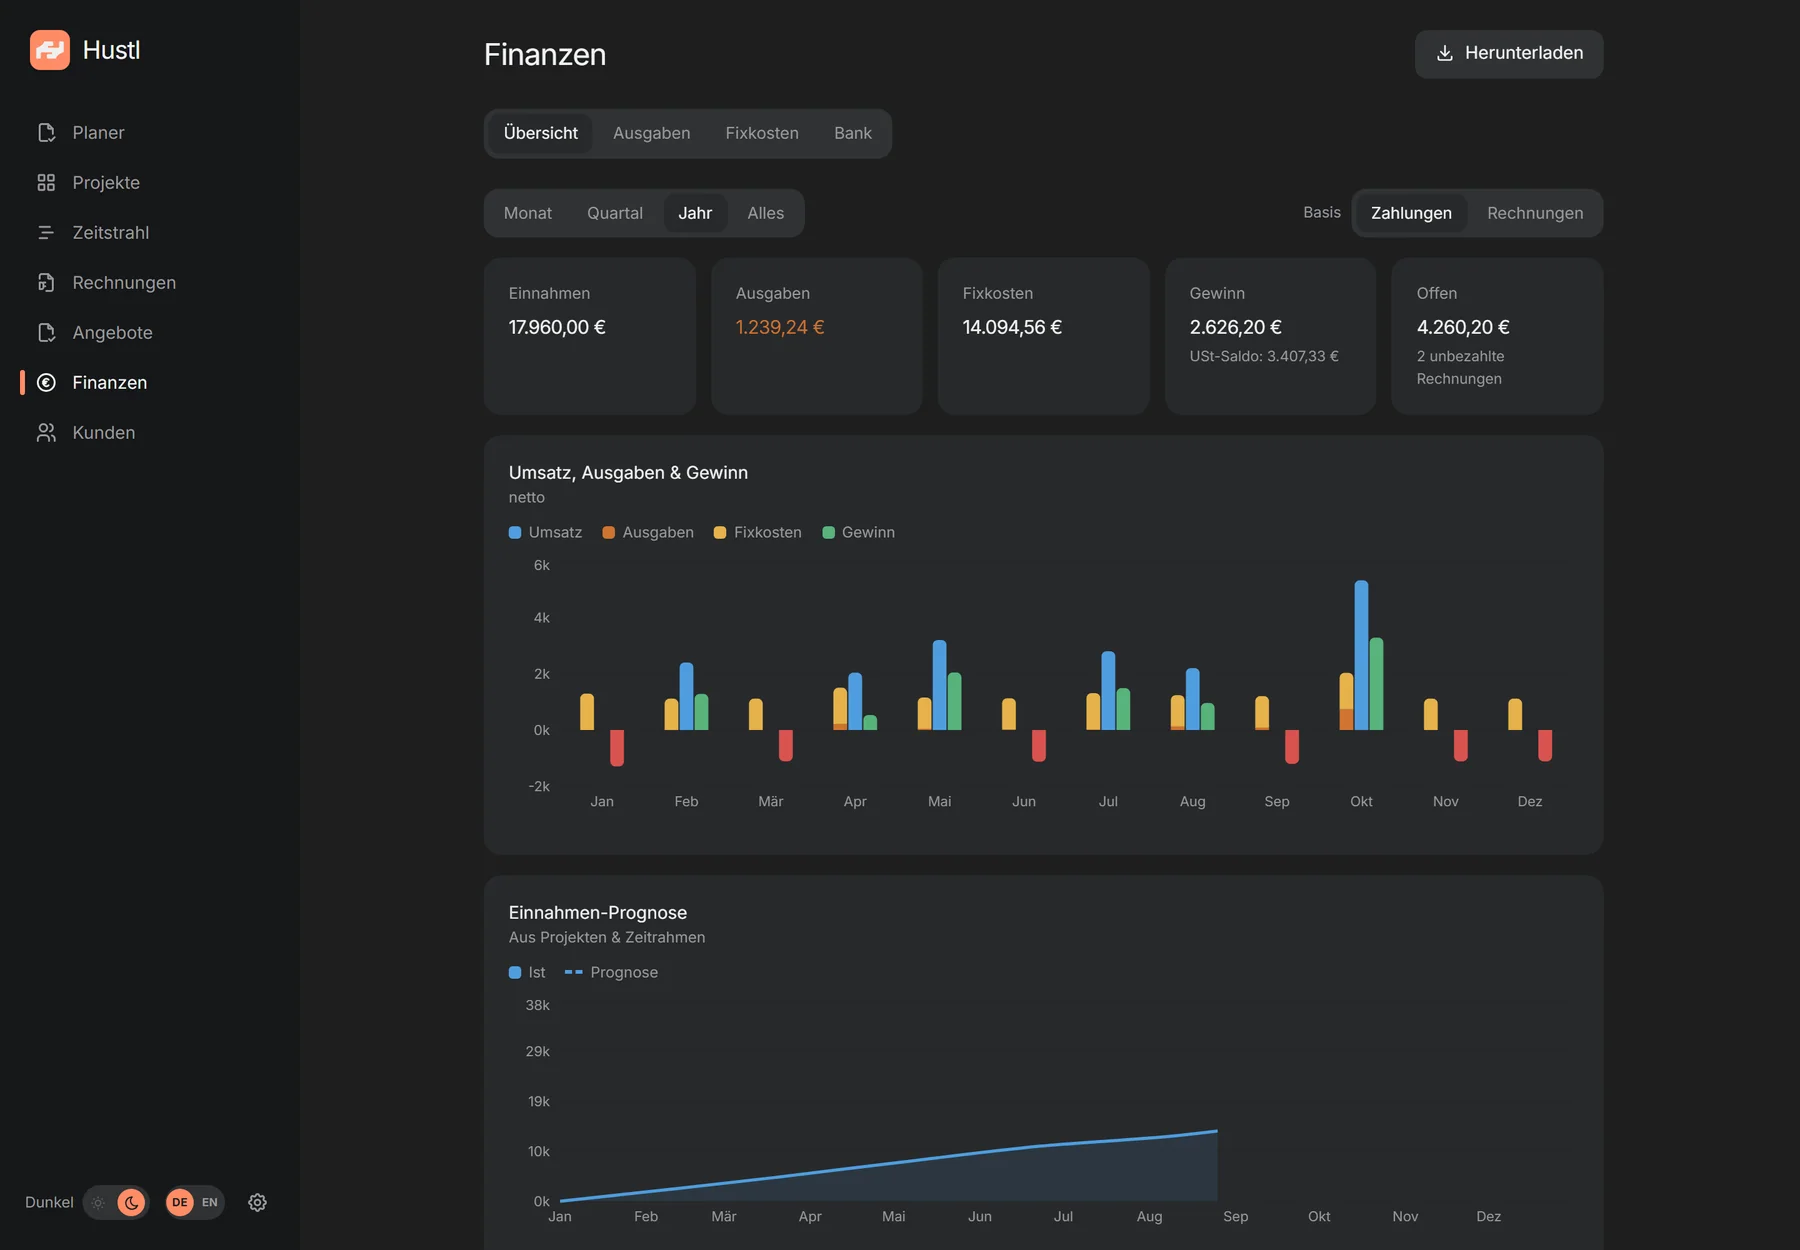
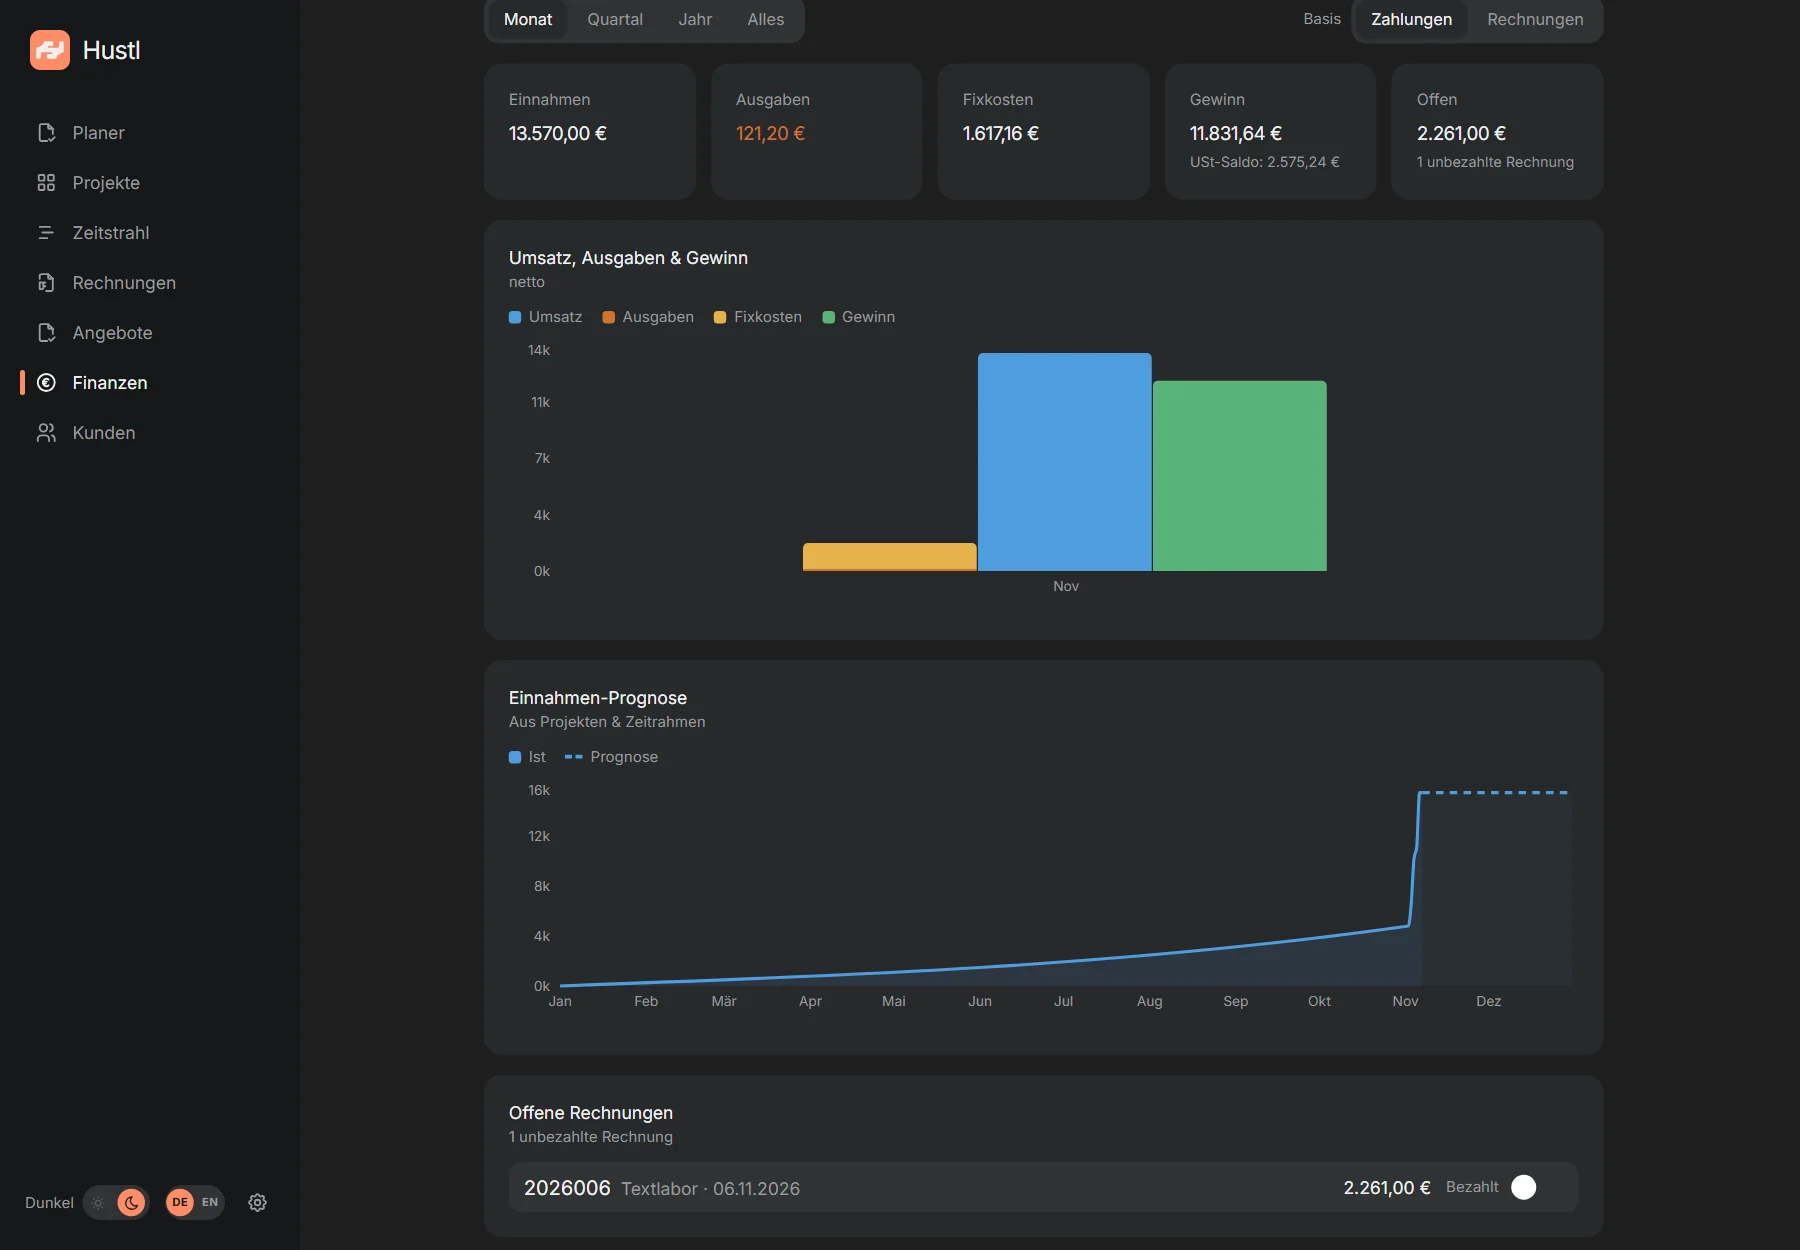
Add audience section and show monthly finance view

diff --git a/site/de/index.html b/site/de/index.html
@@ -128,8 +128,8 @@
 
       <nav class="main-nav" id="main-nav" aria-label="Hauptnavigation">
         <a href="#funktionen">Funktionen</a>
+        <a href="#fuer-wen">Für wen</a>
         <a href="#planer">Planer</a>
-        <a href="#erscheinungsbild">Helles Theme</a>
         <a href="#einblicke">Einblicke</a>
         <a href="#finanz-ablauf">Finanzen</a>
         <a href="#installation">Installation</a>
@@ -252,6 +252,43 @@
             <h3>Überall dabei</h3>
             <p>PWA auf iPhone, iPad und Desktop. Dazu Desktop-Apps für Windows, macOS und Linux: eine Oberfläche, alle Geräte.</p>
           </article>
+        </div>
+      </div>
+    </section>
+
+    <section class="section" id="fuer-wen">
+      <div class="wrap">
+        <div class="audience-grid">
+          <div class="audience-copy reveal">
+            <p class="eyebrow">Für wen</p>
+            <h2>Für Freelancer, die den Überblick behalten wollen.</h2>
+            <p class="audience-lede">Hustl ist für Soloselbstständige und Ein-Personen-Studios, die ihre Zeit lieber in die Arbeit stecken als in fünf verschiedene Tools.</p>
+            <p class="audience-note"><strong>Eine Person pro Instanz.</strong> Hustl ist bewusst klein: mehrere Passkeys, keine Rollen oder Freigaben. Das hält die App ruhig und die Daten in deiner Hand.</p>
+          </div>
+
+          <div class="audience-list reveal">
+            <article class="audience-item">
+              <span class="audience-number" aria-hidden="true">01</span>
+              <div>
+                <h3>Du willst alles an einem Ort.</h3>
+                <p>Projekte, Aufgaben, Rechnungen und Finanzen liegen nebeneinander. Du siehst, was ansteht, was offen ist und was reinkommt, ohne dir alles aus Tabellen zusammenzusuchen.</p>
+              </div>
+            </article>
+            <article class="audience-item">
+              <span class="audience-number" aria-hidden="true">02</span>
+              <div>
+                <h3>Du willst kein weiteres Abo.</h3>
+                <p>Hustl gehört dir. Kein Software-Abo, keine Preise pro Platz. Du zahlst nur für Server und Domain, meist 5 bis 15 € im Monat für den Server plus ein paar Euro im Jahr für die Domain.</p>
+              </div>
+            </article>
+            <article class="audience-item">
+              <span class="audience-number" aria-hidden="true">03</span>
+              <div>
+                <h3>Du willst die Kontrolle über deine Daten.</h3>
+                <p>Rechnungen, Belege und Kundendaten liegen auf deinem eigenen Server. Kein Cloud-Konto, keine Telemetrie. Du kannst sichern, exportieren und die Daten selbst mitnehmen.</p>
+              </div>
+            </article>
+          </div>
         </div>
       </div>
     </section>
@@ -425,7 +462,7 @@
                 <span class="browser-url">Finanzen</span>
                 <span class="browser-spacer" aria-hidden="true"></span>
               </div>
-              <img src="../assets/screens/finance.webp" width="1800" height="1250" alt="Finanzdashboard in Hustl" loading="lazy">
+              <img src="../assets/screens/finance.webp" width="1800" height="1250" alt="Monatsansicht der Finanzen in Hustl" loading="lazy">
             </div>
           </div>
         </div>
@@ -548,7 +585,7 @@
                   <span class="browser-url">Finanzen</span>
                   <span class="browser-spacer" aria-hidden="true"></span>
                 </div>
-                <img src="../assets/screens/finance.webp" width="1800" height="1250" alt="Finanzdashboard mit Einnahmen-Prognose in Hustl" loading="lazy">
+                <img src="../assets/screens/finance.webp" width="1800" height="1250" alt="Monatsansicht der Finanzen mit Einnahmen-Prognose in Hustl" loading="lazy">
               </div>
             </div>
             <details class="finance-details">
@@ -786,6 +823,7 @@ cd /opt/hustl/src &amp;&amp; sudo ./deploy/selfhost/install.sh</code></pre>
       <div class="footer-col">
         <h4>Produkt</h4>
         <a href="#funktionen">Funktionen</a>
+        <a href="#fuer-wen">Für wen</a>
         <a href="#planer">Planer</a>
         <a href="#finanz-ablauf">Finanzablauf</a>
         <a href="#erscheinungsbild">Helles Theme</a>

diff --git a/site/index.html b/site/index.html
@@ -125,8 +125,8 @@
 
       <nav class="main-nav" id="main-nav" aria-label="Main navigation">
         <a href="#features">Features</a>
+        <a href="#who-for">Who it's for</a>
         <a href="#planner">Planner</a>
-        <a href="#appearance">Light theme</a>
         <a href="#screens">Screens</a>
         <a href="#finance-flow">Finance</a>
         <a href="#installation">Install</a>
@@ -249,6 +249,43 @@
             <h3>Everywhere</h3>
             <p>PWA on iPhone, iPad and desktop. Plus desktop apps for Windows, macOS and Linux: one interface, all devices.</p>
           </article>
+        </div>
+      </div>
+    </section>
+
+    <section class="section" id="who-for">
+      <div class="wrap">
+        <div class="audience-grid">
+          <div class="audience-copy reveal">
+            <p class="eyebrow">Who it's for</p>
+            <h2>For freelancers who want to keep the overview.</h2>
+            <p class="audience-lede">Hustl is for solo freelancers and one-person studios who would rather spend their time on the work than on five different tools.</p>
+            <p class="audience-note"><strong>One person per instance.</strong> Hustl is deliberately small: several passkeys, no roles or approvals. That keeps the app calm and your data in your hands.</p>
+          </div>
+
+          <div class="audience-list reveal">
+            <article class="audience-item">
+              <span class="audience-number" aria-hidden="true">01</span>
+              <div>
+                <h3>You want one place for the whole picture.</h3>
+                <p>Projects, tasks, invoices and finances sit next to each other. You see what is due, what is open and what is coming in, without piecing it together from spreadsheets.</p>
+              </div>
+            </article>
+            <article class="audience-item">
+              <span class="audience-number" aria-hidden="true">02</span>
+              <div>
+                <h3>You don't want another subscription.</h3>
+                <p>Hustl belongs to you. There is no software subscription and no per-seat pricing. You only pay for your server and domain, usually 5 to 15 € per month for the server plus a few euros a year for the domain.</p>
+              </div>
+            </article>
+            <article class="audience-item">
+              <span class="audience-number" aria-hidden="true">03</span>
+              <div>
+                <h3>You want control over your data.</h3>
+                <p>Invoices, receipts and client data live on your own server. No cloud account, no telemetry. You can back up, export and take the data with you.</p>
+              </div>
+            </article>
+          </div>
         </div>
       </div>
     </section>
@@ -422,7 +459,7 @@
                 <span class="browser-url">Finance</span>
                 <span class="browser-spacer" aria-hidden="true"></span>
               </div>
-              <img src="assets/screens/finance-en.webp" width="1800" height="1250" alt="Finance dashboard in Hustl" loading="lazy">
+              <img src="assets/screens/finance-en.webp" width="1800" height="1250" alt="Monthly finance dashboard in Hustl" loading="lazy">
             </div>
           </div>
         </div>
@@ -545,7 +582,7 @@
                   <span class="browser-url">Finance</span>
                   <span class="browser-spacer" aria-hidden="true"></span>
                 </div>
-                <img src="assets/screens/finance-en.webp" width="1800" height="1250" alt="Finance dashboard with income forecast in Hustl" loading="lazy">
+                <img src="assets/screens/finance-en.webp" width="1800" height="1250" alt="Monthly finance dashboard with income forecast in Hustl" loading="lazy">
               </div>
             </div>
             <details class="finance-details">
@@ -783,6 +820,7 @@ cd /opt/hustl/src &amp;&amp; sudo ./deploy/selfhost/install.sh</code></pre>
       <div class="footer-col">
         <h4>Product</h4>
         <a href="#features">Features</a>
+        <a href="#who-for">Who it's for</a>
         <a href="#planner">Planner</a>
         <a href="#finance-flow">Finance flow</a>
         <a href="#appearance">Light theme</a>

diff --git a/site/styles.css b/site/styles.css
@@ -609,6 +609,86 @@ summary:focus-visible {
   line-height: 1.65;
 }
 
+/* ---------- Who it's for ---------- */
+
+.audience-grid {
+  display: grid;
+  grid-template-columns: minmax(0, 0.88fr) minmax(0, 1.12fr);
+  align-items: start;
+  gap: clamp(36px, 7vw, 96px);
+}
+.audience-copy .eyebrow {
+  margin-bottom: 12px;
+}
+.audience-copy h2 {
+  font-size: clamp(2rem, 4.2vw, 3.35rem);
+  line-height: 1.08;
+  letter-spacing: -0.045em;
+  font-weight: 700;
+  text-wrap: balance;
+}
+.audience-lede {
+  margin-top: 18px;
+  max-width: 46ch;
+  color: var(--muted);
+  font-size: 16px;
+  line-height: 1.7;
+  text-wrap: pretty;
+}
+.audience-note {
+  margin-top: 24px;
+  max-width: 46ch;
+  padding: 18px 20px;
+  border-radius: 16px;
+  background: var(--surface);
+  color: var(--faint);
+  font-size: 13.5px;
+  line-height: 1.65;
+}
+.audience-note strong {
+  color: var(--text);
+  font-weight: 600;
+}
+.audience-list {
+  display: grid;
+  gap: 2px;
+  padding: clamp(8px, 1.4vw, 14px);
+  border-radius: 28px;
+  background: var(--surface);
+  box-shadow: var(--shadow-soft);
+}
+.audience-item {
+  display: grid;
+  grid-template-columns: 38px 1fr;
+  gap: clamp(12px, 2vw, 22px);
+  padding: clamp(20px, 3vw, 30px);
+  border-radius: 18px;
+  transition: background 0.25s ease;
+}
+.audience-item:hover {
+  background: var(--surface-2);
+}
+.audience-number {
+  padding-top: 2px;
+  color: var(--accent);
+  font-size: 12px;
+  font-weight: 600;
+  letter-spacing: 0.08em;
+  line-height: 1.8;
+}
+.audience-item h3 {
+  margin-bottom: 7px;
+  font-size: clamp(17px, 1.8vw, 20px);
+  font-weight: 600;
+  letter-spacing: -0.02em;
+  line-height: 1.3;
+}
+.audience-item p {
+  color: var(--muted);
+  font-size: 14px;
+  line-height: 1.7;
+}
+
 /* ---------- Planner ---------- */
 
 .planner-grid {
@@ -1606,6 +1686,13 @@ summary:focus-visible {
   .hosting-grid {
     grid-template-columns: repeat(2, 1fr);
   }
+  .audience-grid {
+    grid-template-columns: 1fr;
+    gap: 34px;
+  }
+  .audience-copy {
+    max-width: 680px;
+  }
   .finance-flow-grid {
     grid-template-columns: 1fr 1fr;
   }
@@ -1671,6 +1758,14 @@ summary:focus-visible {
   }
   .feature-card {
     min-height: 0;
+  }
+  .audience-item {
+    grid-template-columns: 30px 1fr;
+    gap: 10px;
+    padding: 20px 16px;
+  }
+  .audience-note {
+    max-width: none;
   }
   .showcase,
   .showcase-reverse {
